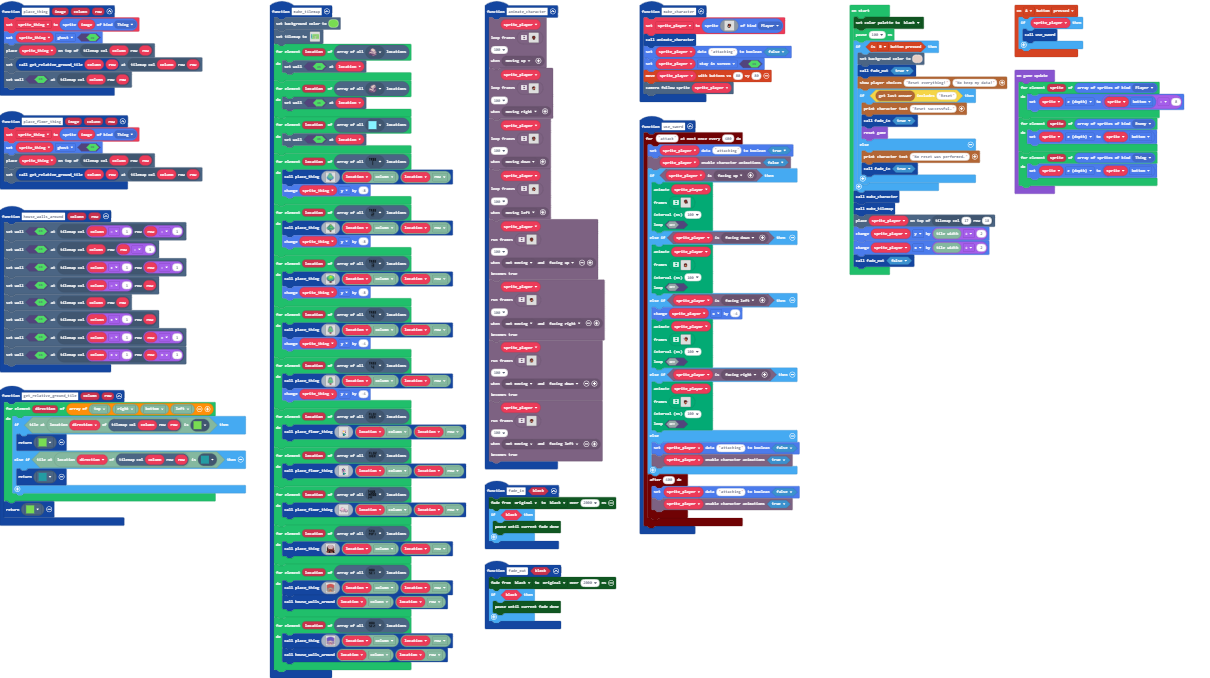
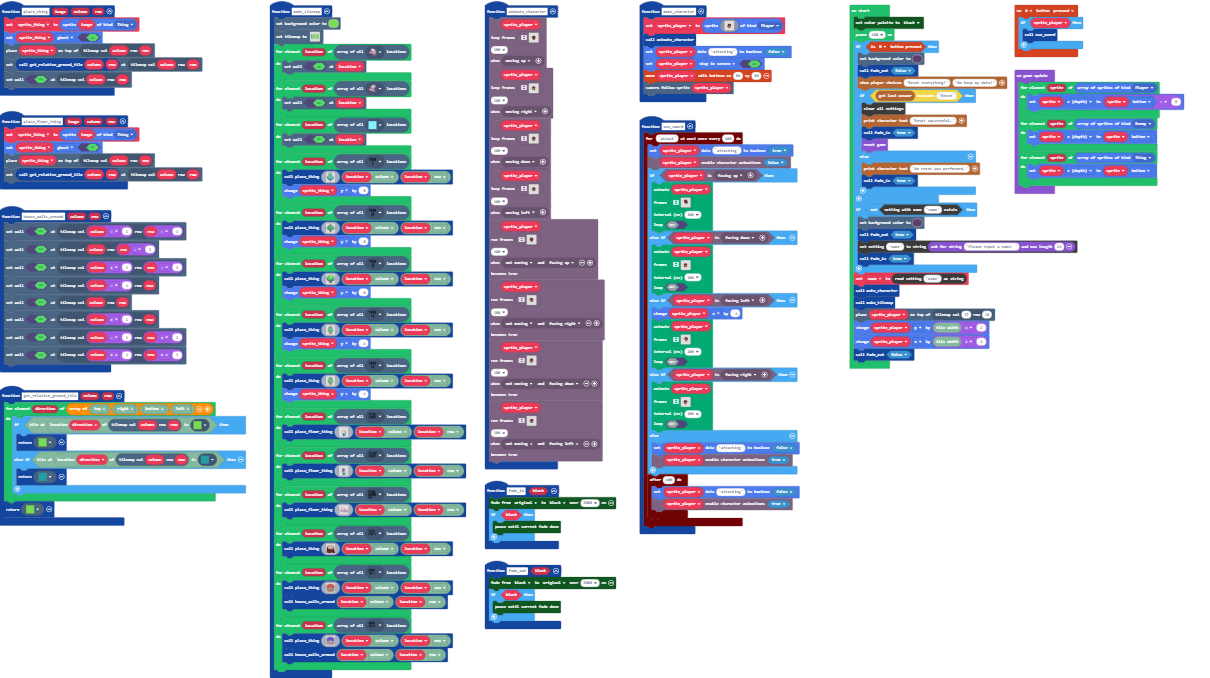
Ask for name

Changed region(s): [[0.7033, 0.0929, 0.8868, 0.5575]]

diff --git a/main.ts b/main.ts
@@ -212,10 +212,11 @@ color.Black
 )
 pause(100)
 if (controller.B.isPressed()) {
-    scene.setBackgroundColor(13)
-    fade_out(true)
+    scene.setBackgroundColor(12)
+    fade_out(false)
     story.showPlayerChoices("Reset everything!", "No keep my data!")
     if (story.getLastAnswer().includes("Reset")) {
+        blockSettings.clear()
         story.printCharacterText("Reset successful.")
         fade_in(true)
         game.reset()
@@ -224,6 +225,13 @@ if (controller.B.isPressed()) {
         fade_in(true)
     }
 }
+if (!(blockSettings.exists("name"))) {
+    scene.setBackgroundColor(12)
+    fade_out(true)
+    blockSettings.writeString("name", game.askForString("Please input a name: ", 24))
+    fade_in(true)
+}
+let name = blockSettings.readString("name")
 make_character()
 make_tilemap()
 tiles.placeOnTile(sprite_player, tiles.getTileLocation(17, 18))
